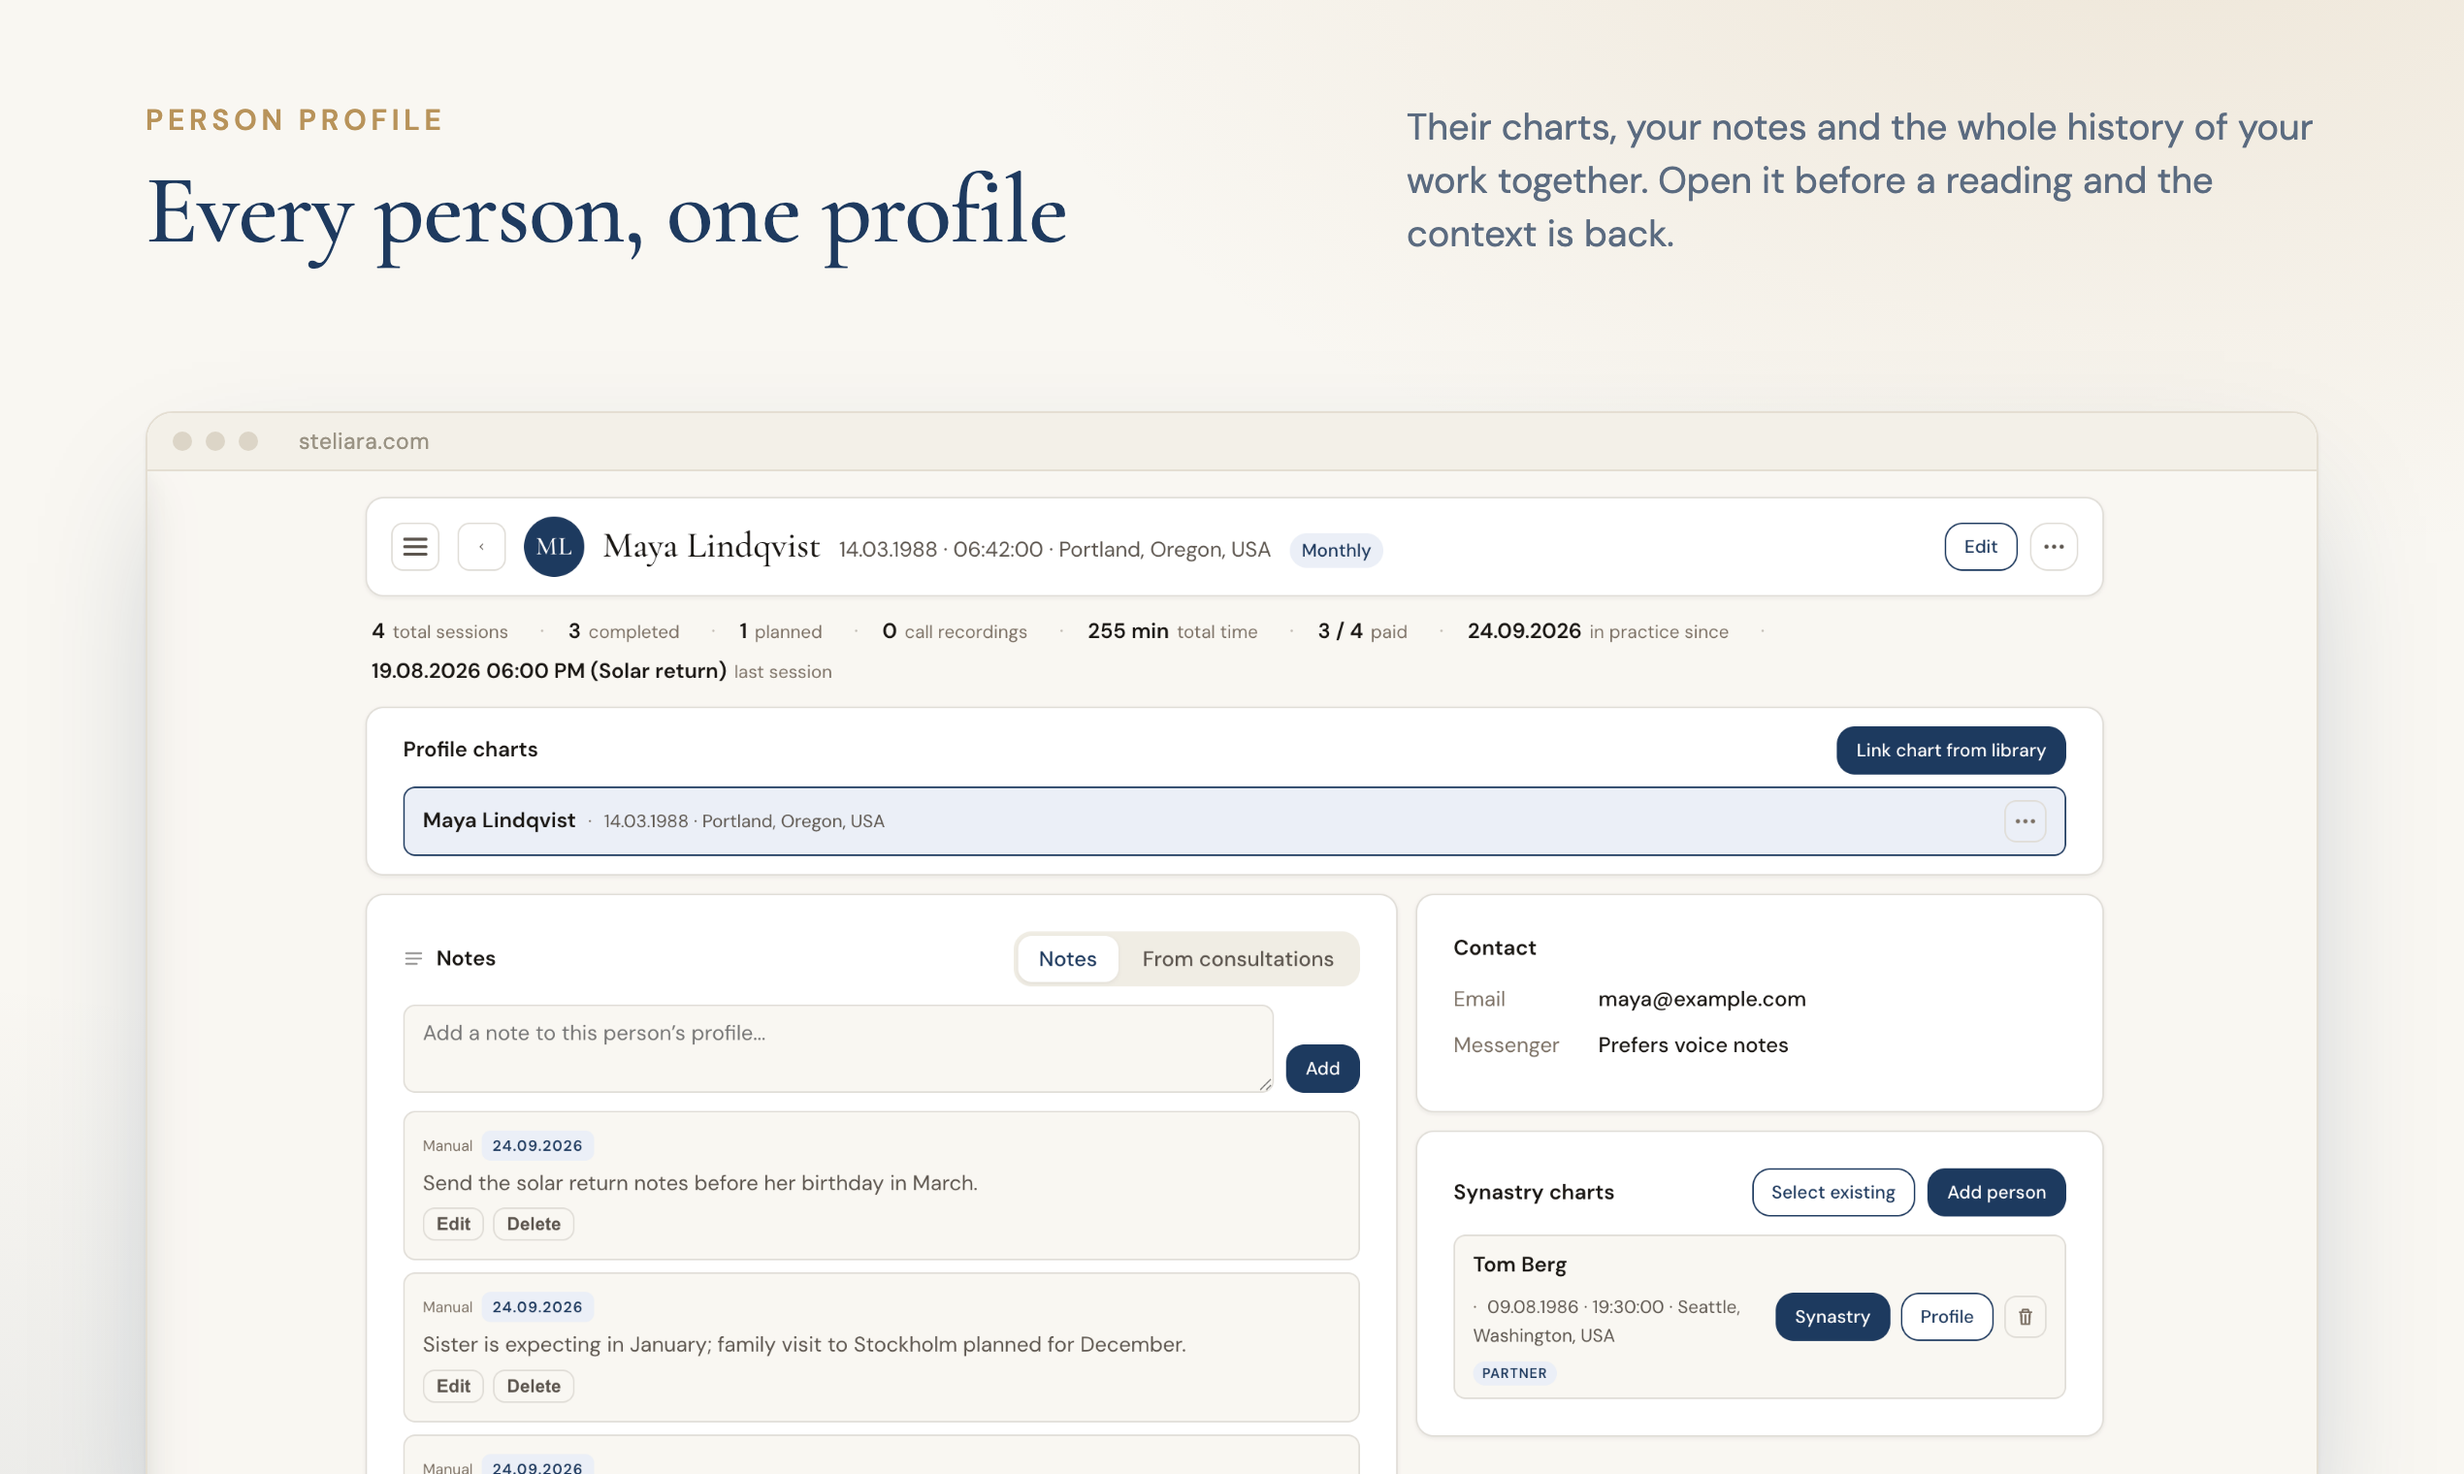
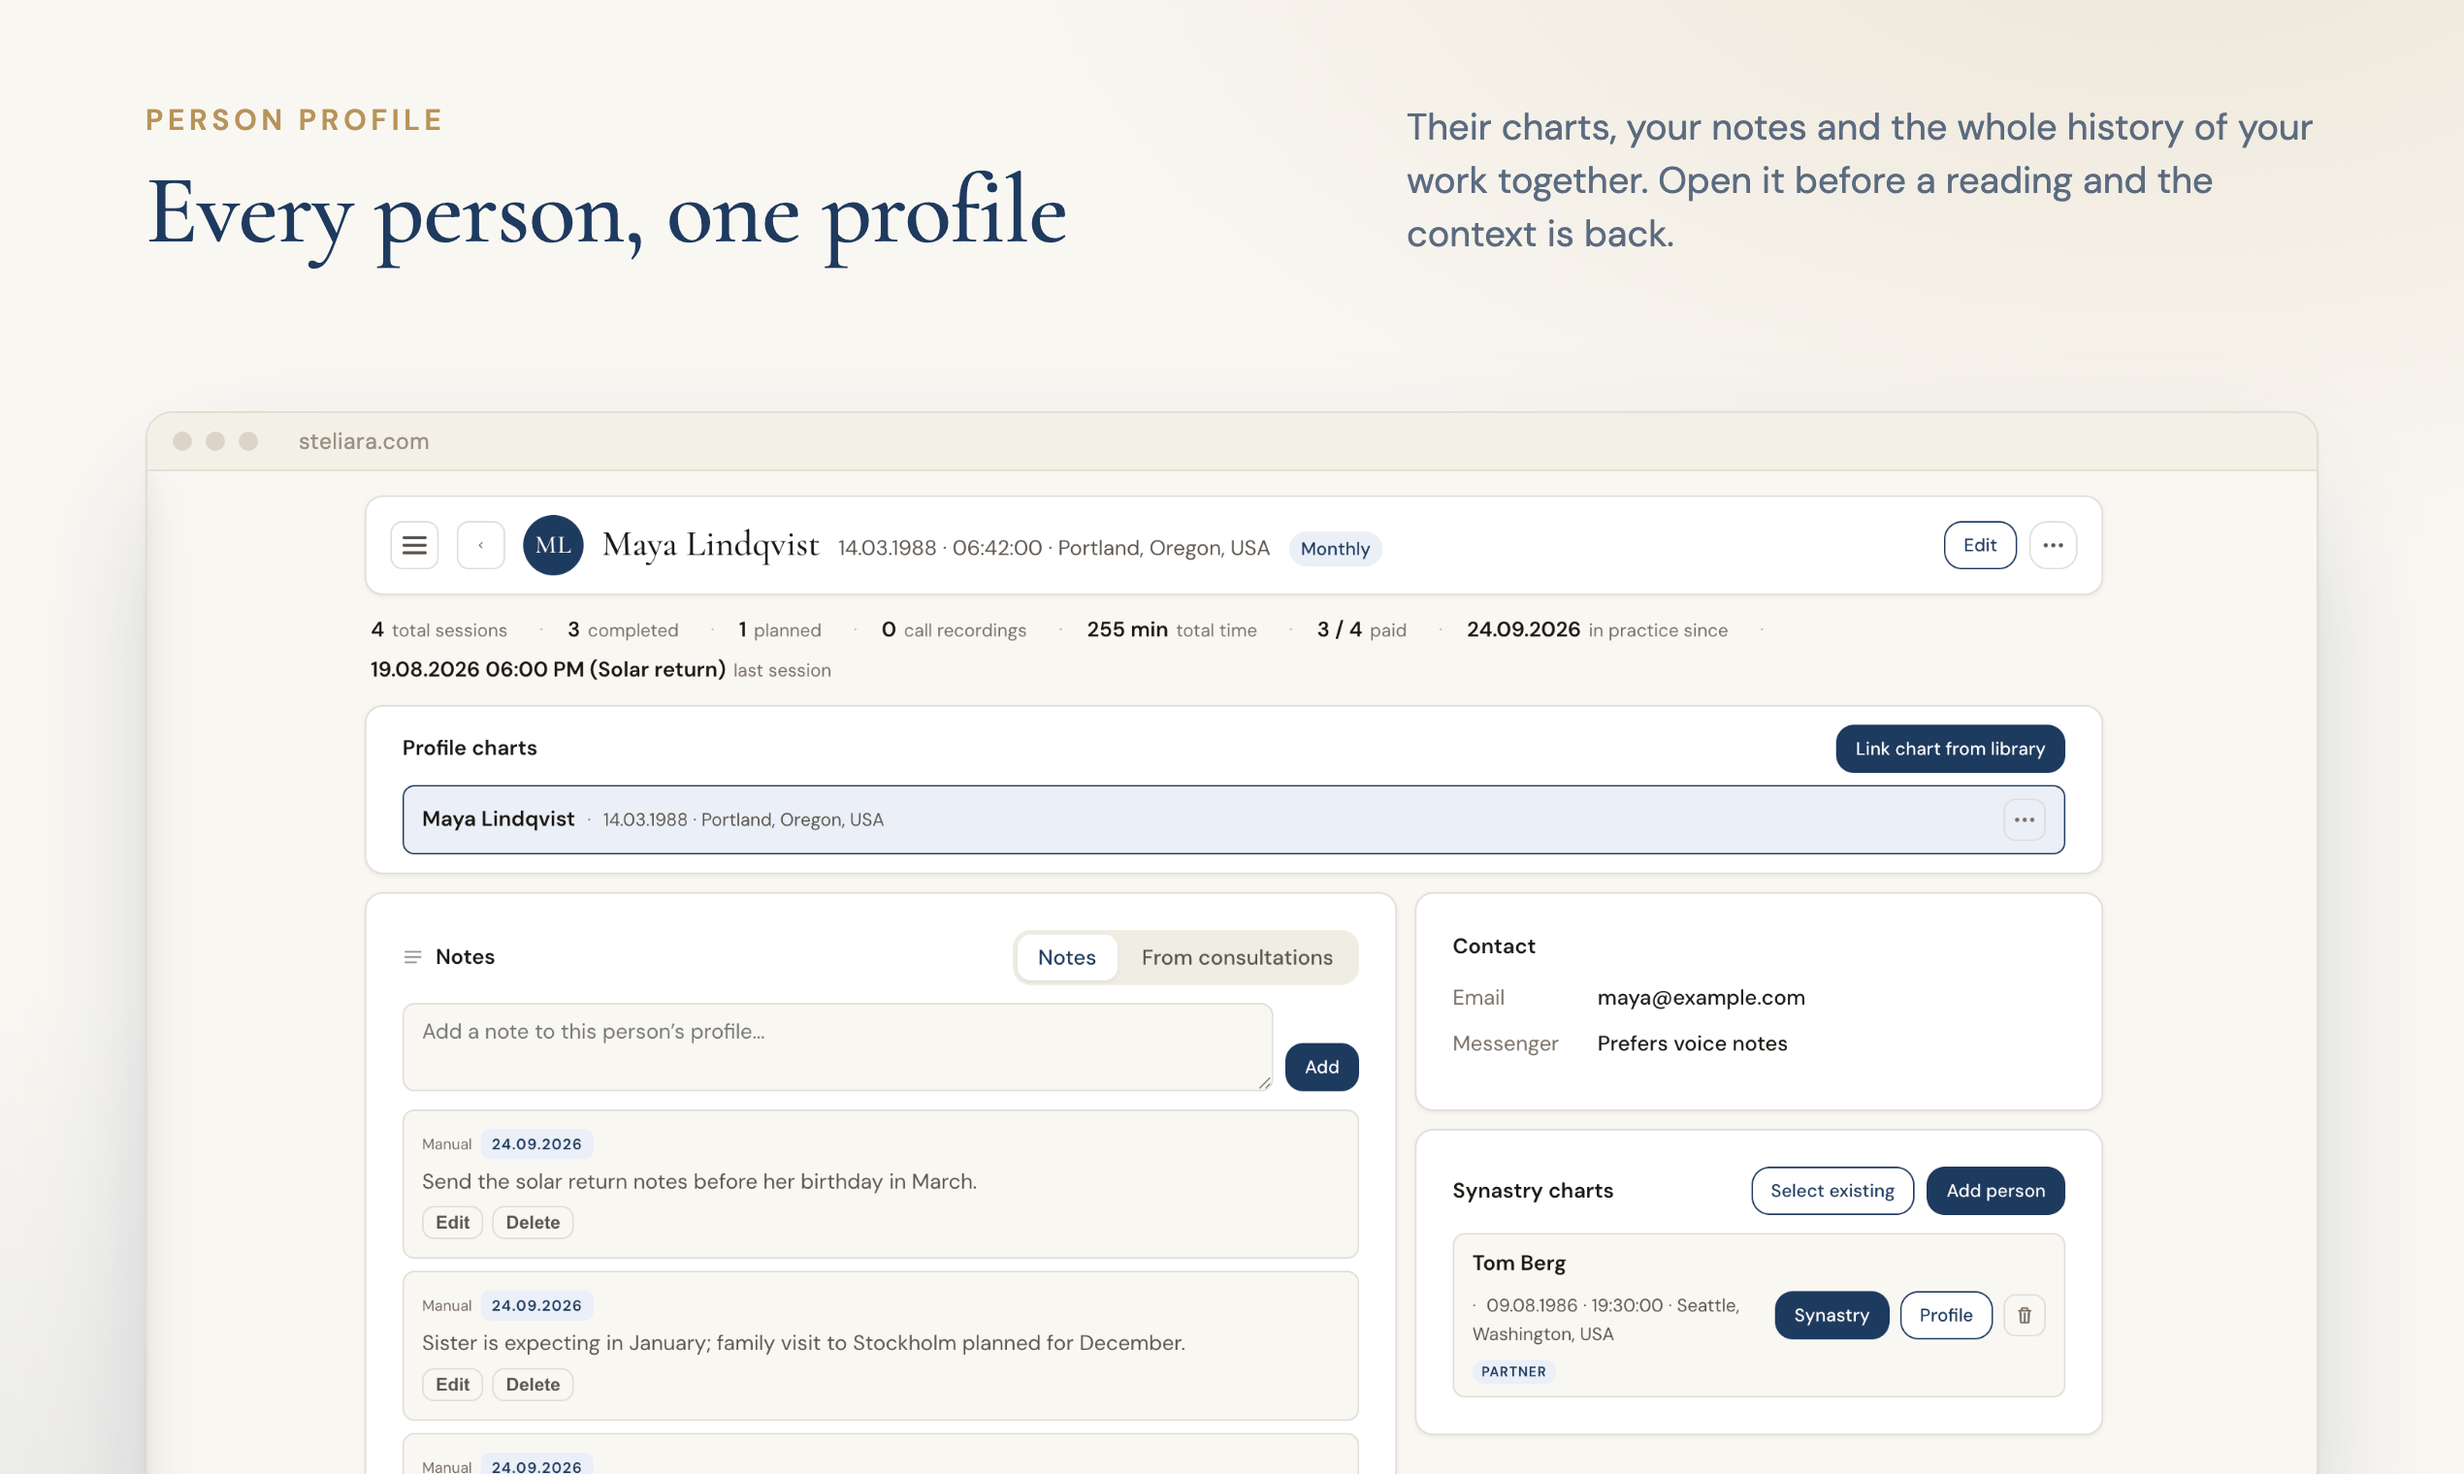
docs(marketing): recapture PH slides 2-4 on the fixed prod build

diff --git a/docs/marketing/product-hunt/launch-kit.md b/docs/marketing/product-hunt/launch-kit.md
@@ -34,7 +34,7 @@ Perplexity/ChatGPT по категорийным запросам; хвост п
 проверено вживую. В пункте 8 заодно убраны «recordings» у Practitioner из `/pricing.md` и
 карточек тарифов на трёх conquest-страницах. Открыт вопрос: ассистент включён и на
 Practitioner (`standard.assistant_enabled=True`), а страница цен обещает его только в
-Studio — нужно решить, что верно. После выкладки переснять слайды 2 и 3.
+Studio — нужно решить, что верно. Слайды 2–4 пересняты после выкладки.
 Остаются 5, 6, 7.
 
 Плюс обычная проверка: в режиме инкогнито пройти по-английски путь
@@ -71,8 +71,8 @@ Studio — нужно решить, что верно. После выкладк
 | # | Файл | Про что | Статус |
 |---|---|---|---|
 | 1 | `gallery/01-workspace.png` | Рабочий экран: натал + транзиты | готово |
-| 2 | `gallery/02-profile.png` | Профиль человека: карты, заметки, контакт, партнёр | готово (после фикса блокеров 2–3 переснять) |
-| 3 | `gallery/03-assistant.png` | Ответ из данных карты: Плутон по Луне, 3 точных прохода | **переснять после блокера 1** |
+| 2 | `gallery/02-profile.png` | Профиль человека: карты, заметки, контакт, партнёр | готово (переснято на проде после фиксов) |
+| 3 | `gallery/03-assistant.png` | Ответ из данных карты: Плутон по Луне, 3 точных прохода | готово (переснято на проде; `23:59:59` в closest approach уйдёт после серверного форматирования времени) |
 | 4 | *consultation (нет)* | Звонок → запись → расшифровка → краткое содержание | **снять по разделу 6 и поставить на место №2** |
 | 5 | `gallery/04-history.png` | История сессий в профиле | готово |
 | 6 | `gallery/05-timeline.png` | Год транзитов на одном экране | готово |
@@ -284,9 +284,8 @@ Sofia Reyes, James Whitaker, Hana Sato, Leila Haddad, Oliver Brandt, Amara Nwosu
 Cole. Натальные данные вымышленные, заметки сверены с реальными транзитами карты Maya
 (Плутон ☌ Луна 2026–27, Нептун на ASC, Сатурн □ Марс).
 
-Их оставить до запуска: слайды 2 и 3 нужно переснять после фиксов. После запуска
-удалить. ID всех записей — в `gallery-src/demo-data.json`.
+Их оставить до запуска (могут понадобиться для кадра консультации и видео). После
+запуска удалить. ID всех записей — в `gallery-src/demo-data.json`.
 
-На кадрах списка скрыты старые тестовые строки аккаунта (кириллица); на кадре профиля
-даты поправлены так, как они будут выглядеть после фикса блокеров 2–3. Остальное на
+На кадрах списка скрыты старые тестовые строки аккаунта (кириллица). Остальное на
 скриншотах — реальный интерфейс без правок.
